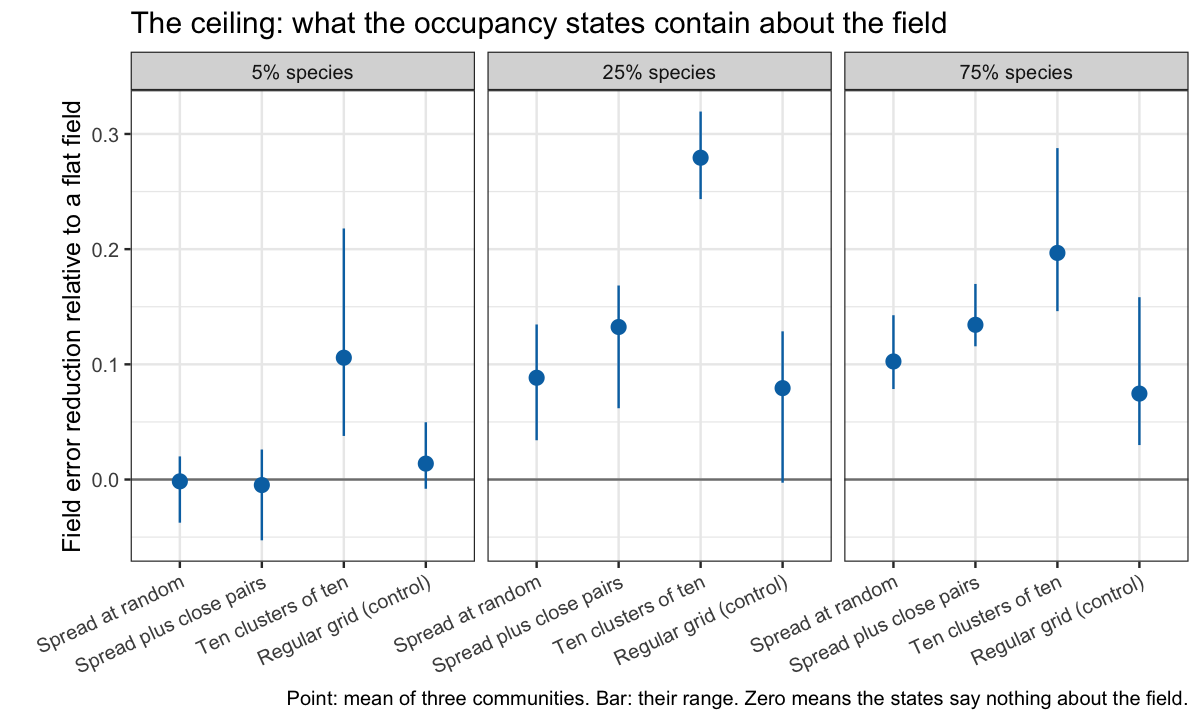
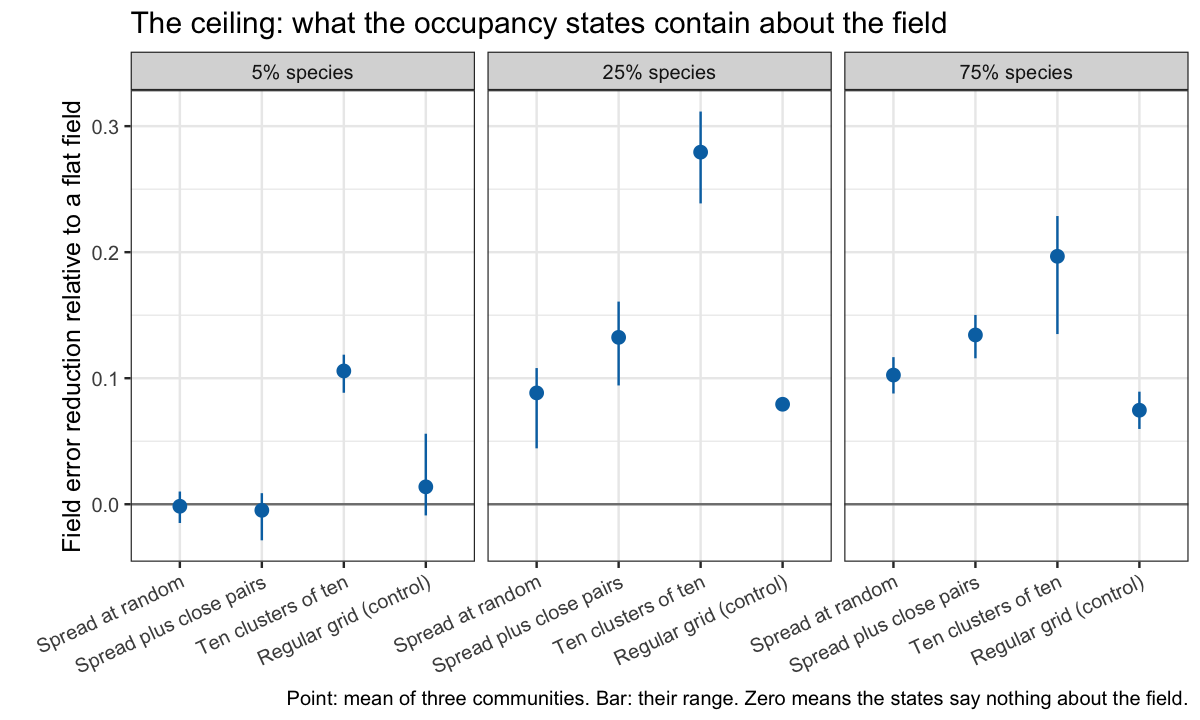
Correct Lesson 2's oracle figure and overstated claims and remove stale planning text

diff --git a/vignettes/occJSDM-lesson-2.md b/vignettes/occJSDM-lesson-2.md
@@ -5,11 +5,11 @@ Lesson 2: Spatial landscapes and survey design
 
 **The concepts come first; the worked sections below test them on a controlled simulation.** The sweep behind them fixed its design before any fit; the protocol and audited results are in the repository’s development folder. Dispersal and same-scale environmental confounding are not simulated here; the closing section says what remains.
 
-The central ecological question will be: **if a site offers suitable conditions, why might a species still be absent, and what can spatial information tell us?** We will use smooth environmental gradients and species with contrasting dispersal abilities. These ingredients will be introduced in separate sublessons so their effects are visible.
+The central ecological question will be: **if a site offers suitable conditions, why might a species still be absent, and what can spatial information tell us?** The worked sections use one broad environmental gradient and one short-range spatial field per species; contrasts between species with different dispersal abilities are deferred, and the closing section says what remains.
 
 ## Spatial effects, inference and sampling design
 
-This section explains what the spatial component contributes to species distribution predictions and how that affects survey design. It is written so that a study can be planned before the worked spatial example below exists. [Lesson 3](occJSDM-lesson-3.md#predict-occupancy-at-genuinely-new-sites) shows the non-spatial prediction call in R.
+This section explains what the spatial component contributes to species distribution predictions and how that affects survey design. It can be read on its own, before the worked sections. [Lesson 3](occJSDM-lesson-3.md#predict-occupancy-at-genuinely-new-sites) shows the non-spatial prediction call in R.
 
 ### What the spatial component learns
 
@@ -176,10 +176,21 @@ recovery <- cells |>
          arm = factor(arm, names(arm_labels), arm_labels),
          group = factor(group, names(group_labels), group_labels))
 
+# Each community's reduction, for the bars: errors are averaged over the group's species first.
+oracle_communities <- sweep$oracle |>
+  group_by(community, arrangement, group) |>
+  summarise(reduction = 1 - mean(centred_rmse) / mean(zero_field_rmse),
+            correlation = mean(centred_correlation), .groups = "drop")
+oracle_bars <- oracle_communities |>
+  group_by(arrangement, group) |>
+  summarise(low = min(reduction), high = max(reduction), .groups = "drop") |>
+  mutate(arrangement = factor(arrangement, arrangement_order, arrangement_labels),
+         group = factor(group, names(group_labels), group_labels))
+
 ggplot(filter(recovery, arm == arm_labels["oracle"]), aes(arrangement, reduction)) +
   geom_hline(yintercept = 0, colour = "grey50") +
-  geom_pointrange(aes(ymin = 1 - centred_rmse_max / zero_field_rmse, ymax = 1 - centred_rmse_min / zero_field_rmse),
-                  colour = "#0072B2") +
+  geom_linerange(data = oracle_bars, aes(arrangement, ymin = low, ymax = high), inherit.aes = FALSE, colour = "#0072B2") +
+  geom_point(colour = "#0072B2", size = 2.6) +
   facet_wrap(~ group) +
   labs(x = NULL, y = "Field error reduction relative to a flat field",
        title = "The ceiling: what the occupancy states contain about the field",
@@ -193,9 +204,13 @@ ggplot(filter(recovery, arm == arm_labels["oracle"]), aes(arrangement, reduction
 oracle_cells <- filter(cells, arm == "oracle")
 common <- filter(oracle_cells, group != "prevalence_5pct")
 rare <- filter(oracle_cells, group == "prevalence_5pct")
+clustered_25 <- filter(oracle_communities, arrangement == "clustered", group == "prevalence_25pct")
+clustered_75 <- filter(oracle_communities, arrangement == "clustered", group == "prevalence_75pct")
+clustered_5 <- filter(oracle_communities, arrangement == "clustered", group == "prevalence_5pct")
+passes <- function(d) sum(d$reduction >= .2 & d$correlation >= .5)
 ```
 
-The ceiling is low. Knowing everything except the field, the oracle removes at most 27.9% of the flat-field error, for the 25% species in the clustered design. For the common species it removes 7.5 to 10.2% with sites spread at random or on the grid, and 13.2 to 13.4% once close pairs are added. For the rare species it removes 10.6% in the clustered design and almost nothing elsewhere. One hundred occupancy states hold little information about a field whose range is 3% of the area’s side, however the sites are arranged, so no fit to those states can do much better.
+The ceiling is low for every arrangement except one. With sites spread at random, in pairs or on the grid, the oracle, knowing everything except the field, removes only 7.5 to 13.4% of the flat-field error for the common species, and almost nothing for the rare ones. Clustering changes that for the common species. For the 25% species the oracle clears both informative thresholds in 3 of 3 communities, with reductions of 23.9 to 31.2% and correlations of 0.64 to 0.73; for the 75% species it clears them in 2 of 3. For the rare species even clustered sites leave the oracle at 8.8 to 11.9%. So for most arrangements 100 occupancy states hold little information about a field whose range is 3% of the area’s side; clustered sites hold enough for the common species, and the next section asks whether occJSDM extracts it.
 
 ``` r
 sweep$reading |>
@@ -230,7 +245,7 @@ With sites spread at random, the field is not recoverable for any species group.
 
 ## 2C. What occJSDM delivers
 
-The full model must also estimate the intercepts, slopes, range and amplitude, and in the survey arm it must see the field through two field samples, two primers and six PCRs per sample. The oracle-to-true-state gap is the cost of estimation; the true-state-to-survey gap is the cost of detection.
+The full model must also estimate the intercepts, slopes, range and amplitude, and in the survey arm it must see the field through two field samples, two primers and six PCRs per primer per sample, 12 PCRs per sample. The oracle-to-true-state gap is the cost of estimation; the true-state-to-survey gap is the cost of detection.
 
 ``` r
 ggplot(recovery, aes(arrangement, reduction, colour = arm)) +
@@ -247,6 +262,11 @@ ggplot(recovery, aes(arrangement, reduction, colour = arm)) +
 ![](teaching-data/lesson-2-fit-recovery-1.png)<!-- -->
 
 ``` r
+survey_communities <- sweep$fits$field |>
+  filter(arm == "two_stage") |>
+  group_by(community, arrangement, target) |>
+  summarise(reduction = 1 - mean(centred_rmse) / mean(zero_field_rmse), .groups = "drop")
+
 sweep$paired |>
   group_by(arrangement) |>
   summarise(estimation = mean(estimation_cost), detection = mean(detection_cost), .groups = "drop") |>
@@ -265,7 +285,7 @@ sweep$paired |>
 
 Increase in field RMSE on the log-odds scale, mean of three communities and three species groups
 
-Both gaps are real. Estimation adds 0.070 to the field error on average and adds to it in 30 of the 36 community, arrangement and group cells. Detection adds a further 0.022 on average and adds to it in 35 of 36. The clustered design, which has the highest ceiling, carries the largest of both. The eDNA-survey fits remove at most 2.7% of the flat-field error in any cell.
+Both gaps are real. Estimation adds 0.070 to the field error on average and adds to it in 30 of the 36 community, arrangement and group cells. Detection adds a further 0.022 on average and adds to it in 35 of 36. The clustered design, which has the highest ceiling, carries the largest of both. The eDNA-survey fits remove at most 2.7% of the flat-field error in any cell when averaged over communities, and at most 3.6% in any single community.
 
 ``` r
 cells |>
@@ -287,7 +307,7 @@ cells |>
 
 The clustered design for the common species, mean of three communities
 
-In the clustered design the fit places the patches about as well as the oracle does, but not their strength. For the common species the true-state fit’s correlation with the true field is as high as the oracle’s, yet it removes less than half as much of the error. Correlation ignores scale and the error does not: the fit shrinks the field towards zero. Its posterior median for the field’s standard deviation is 0.31 to 0.36 against a true value of 1, and the upper end of its 95% interval is at most 0.61 in any fit. In the maps below, on one colour scale, the fitted fields are much paler than the truth.
+In the clustered design the fit places the patches about as well as the oracle does, but not their strength. For the common species the true-state fit’s correlation with the true field is as high as the oracle’s, yet it removes less than half as much of the error. Correlation ignores scale and the error does not: the fit shrinks the field towards zero. Its posterior median for the field’s standard deviation is 0.31 to 0.36 against a true value of 1, and the upper end of its 95% interval is at most 0.61 in any fit. So where the data do hold the field, the fit falls short of the ceiling through that shrinkage: for the 25% species in the clustered design it removes 10.5% of the error against the oracle’s 27.9%. In the maps below, on one colour scale, the fitted fields are much paler than the truth.
 
 ``` r
 maps <- sweep$field_maps |>
@@ -389,9 +409,10 @@ Initial fits that met the prespecified rule for a longer run
 
 ``` r
 amplitude_ess <- filter(sweep$fits$groups, metric == "spatial_sd")$ess_mean
+amplitude_rhat <- filter(sweep$fits$groups, metric == "spatial_sd")$rhat
 ```
 
-Convergence qualifications are part of the result. 3 of the 24 initial fits met the prespecified rule for a longer run; the longer run replaces the initial fit in every table, and 0 selected fits retain a flag after it. The rule covers occupancy, not the spatial amplitude, which mixes slowly: 10 of the 24 selected fits have an amplitude effective sample size below 100, the lowest 49.5. Their amplitude intervals are therefore imprecise, although every one lies far below the true value.
+Convergence qualifications are part of the result. 3 of the 24 initial fits met the prespecified rule for a longer run; the longer run replaces the initial fit in every table, and 0 selected fits retain a flag after it. The rule’s Rhat check covers every scored quantity, including the spatial amplitude, whose Rhat is 1.003 to 1.033, but its effective-sample-size threshold covers occupancy only. The amplitude mixes slowly: 10 of the 24 selected fits have an amplitude effective sample size below 100, the lowest 49.5. Their amplitude interval endpoints are therefore imprecisely estimated, although every interval lies far below the true value.
 
 ## 2D. Predicting unsurveyed locations
 
@@ -430,7 +451,7 @@ near_clusters <- spatial_gain$arrangement == "clustered" & spatial_gain$bin == "
 survey <- filter(lattice_means, arm == "two_stage")
 ```
 
-The lines are nearly flat and nearly coincide. With the spatial term, the true-state fits miss the true occupancy probability by 11.1 to 12.0 points at every distance and in every arrangement, except within 0.02 of a site in the clustered design, at 10.0. Dropping the spatial term changes the error by at most 0.17 points, except in that same bin, where it adds 0.73. Error does not grow with distance from the survey, because the fitted field is too weak to matter at any distance: the environment term carries the prediction. The eDNA-survey fits miss by 18.7 to 21.6 points, with a positive bias of 5.7 to 8.5 points, so detection costs far more here than the arrangement does.
+The lines are nearly flat and nearly coincide. With the spatial term, the true-state fits miss the true occupancy probability by 11.1 to 12.0 points at every distance and in every arrangement, except within 0.02 of a site in the clustered design, at 10.0. Dropping the spatial term changes the error by at most 0.17 points, except in that same bin, where it adds 0.73. Outside the clustered design the error barely changes with distance from the survey. In the clustered design it rises from 10.0 to 11.5 points, and the spatial term accounts for at most 0.73 of that. The fitted field is too weak to matter at any distance: the environment term carries the prediction. The eDNA-survey fits miss by 18.7 to 21.6 points, with a positive bias of 5.7 to 8.5 points, so detection costs far more here than the arrangement does.
 
 ``` r
 sweep$lattice_maps |>
@@ -452,13 +473,24 @@ sweep$lattice_maps |>
 
 ![](teaching-data/lesson-2-lattice-maps-1.png)<!-- -->
 
+``` r
+true_field <- sweep$landscape$field[sweep$landscape$index$lattice, "species06"]
+map_bias <- sweep$lattice_maps |>
+  filter(source == "binary") |>
+  group_by(arrangement) |>
+  summarise(signed = 100 * mean(with - truth), under = mean(with < truth),
+            field_correlation = cor(with - truth, true_field))
+```
+
+In both maps the errors mirror the true field, with a correlation of -0.94 to -0.91 between the error and the field: where the field raises occupancy the fit underpredicts, and where it lowers occupancy the fit overpredicts, because the fit has not learned the field. With clustered sites species 6 is also broadly underpredicted, by 10.0 points on average and in 73.5% of the cells. This is one species in one community, so it shows what a single map can look like, not a property of clustering.
+
 The conceptual section described clustering as trading coverage for neighbours, with close pairs as a hedge between the two. At this budget and range neither side of the trade shows in prediction. The field the fits learn is too weak to carry information away from the sites, so the coverage that clustering gives up costs nothing measurable, and the neighbours it buys help by less than a point, almost all of it within 0.02 of a site. Adding close pairs to a spread design raised the oracle ceiling for the common species, but the true-state fits still removed about 3% of the error or less. Whether the trade appears with a longer range, a stronger field or a larger budget is not tested here.
 
 ## What this establishes, and what it does not
 
 The sweep is a controlled, model-matched simulation: one broad gradient, one field range shared by all species, no dispersal, no species-specific ranges, and no environmental covariate at the field’s scale. Within that, three communities support the reading labels above, not confidence intervals.
 
-At this budget, no arrangement of 100 sites makes a field with a range of 3% of the area’s side recoverable. The information is not in the data: even the oracle ceiling is low. occJSDM recovers less than that ceiling, because it shrinks the field’s amplitude and prefers longer ranges than the truth. Clustering raises the field correlation to the oracle’s level for the common species but barely improves the map. Prediction at unsurveyed locations is carried almost entirely by the environment term, so the coverage that clustering gives up costs nothing measurable here, and the neighbours it gains buy almost nothing. Rare species are unrecoverable in every arrangement. The two-stage survey adds a detection cost on top of the cost of estimation.
+At this budget, no arrangement of 100 sites lets occJSDM recover a field with a range of 3% of the area’s side. For most arrangements the information is not in the data: even the oracle ceiling is low. The exception is clustering for the common species, where the oracle clears the informative thresholds for the 25% species in every community; there occJSDM falls short of the ceiling, because it shrinks the field’s amplitude and prefers longer ranges than the truth. Clustering raises the field correlation to the oracle’s level for the common species but barely improves the map. Prediction at unsurveyed locations is carried almost entirely by the environment term, so the coverage that clustering gives up costs nothing measurable here, and the neighbours it gains buy almost nothing. Rare species are unrecoverable in every arrangement. The two-stage survey adds a detection cost on top of the cost of estimation.
 
 Nothing here validates spatial prediction on real data, establishes interval coverage, or shows what happens when species disperse at different scales; those are the separate contrasts still to come, with same-scale environmental confounding the first candidate.
 

diff --git a/TODO.md b/TODO.md
@@ -112,7 +112,7 @@ Every outstanding item from the previous TODO is accounted for below or in the r
 ## Paper and broader validation
 
 - **Create and validate the full set of vignettes:** currently lessons 0-4. Complete the lesson content, run all examples against the current package, and render and review each vignette for correctness, consistency and clear presentation. Verify that results and explanations reflect the current API and documented model limitations.
-- ~~**Lesson 2 (study design): show when the spatial submodel is informative.**~~ **DONE 1 October 2026:** see [the sweep](dev/simstudy/spatial-design-sweep/README.md) and Lesson 2. The [spatial-amplitude comparison](dev/simstudy/spatial-amplitude-prior/README.md) and its [conditional diagnosis](dev/simstudy/spatial-amplitude-prior/diagnosis/REPORT.md) found that the nine saved communities carry little information about their spatial fields: sites are sparse relative to the correlation range (at the shortest range, 61 to 70% of sites have no neighbour with correlation above 0.5), one binary observation per site is weak, and 1% and 5% species are unrecoverable at any design. Both priors recovered nearly flat fields. Turn that negative result into design guidance with a prespecified design sweep. Vary site spacing relative to the generating range (site density or range at fixed extent) and the number of sites, crossed with species prevalence; treat repeated independent occupancy states per site (experiment D) as an upper bound, not a survey recommendation. Run the sweep with the validated conditional elliptical-slice sampler from the diagnosis, which fits in minutes and already has audit machinery, then confirm the informative and uninformative corners with a few full-model fits to show what the package delivers, including convergence. Fix the design grid, the recovery criteria (centred median-field RMSE and correlation against a zero-field baseline, occupancy error by prevalence) and the sampling budgets before fitting, and report convergence qualifications as in the earlier studies. Present in Lesson 2 as: recovery improves once neighbouring sites lie within the correlation range and species are common enough, and the spatial term should be documented as uninformative otherwise. Schedule after the required occupancy-intercept widening study (completed 30 September 2026); no default change follows from it.
+- ~~**Lesson 2 (study design): show when the spatial submodel is informative.**~~ **DONE 1 October 2026: 11 of the 12 arrangement and species-group cells were uninformative, the clustered design for the 25% species was intermediate, and the range was never recovered.** See [the sweep](dev/simstudy/spatial-design-sweep/README.md) and Lesson 2. ~~The [spatial-amplitude comparison](dev/simstudy/spatial-amplitude-prior/README.md) and its [conditional diagnosis](dev/simstudy/spatial-amplitude-prior/diagnosis/REPORT.md) found that the nine saved communities carry little information about their spatial fields: sites are sparse relative to the correlation range (at the shortest range, 61 to 70% of sites have no neighbour with correlation above 0.5), one binary observation per site is weak, and 1% and 5% species are unrecoverable at any design. Both priors recovered nearly flat fields. Turn that negative result into design guidance with a prespecified design sweep. Vary site spacing relative to the generating range (site density or range at fixed extent) and the number of sites, crossed with species prevalence; treat repeated independent occupancy states per site (experiment D) as an upper bound, not a survey recommendation. Run the sweep with the validated conditional elliptical-slice sampler from the diagnosis, which fits in minutes and already has audit machinery, then confirm the informative and uninformative corners with a few full-model fits to show what the package delivers, including convergence. Fix the design grid, the recovery criteria (centred median-field RMSE and correlation against a zero-field baseline, occupancy error by prevalence) and the sampling budgets before fitting, and report convergence qualifications as in the earlier studies. Present in Lesson 2 as: recovery improves once neighbouring sites lie within the correlation range and species are common enough, and the spatial term should be documented as uninformative otherwise. Schedule after the required occupancy-intercept widening study (completed 30 September 2026); no default change follows from it.~~
 - **Compare spatial-effect recovery across JSDM software in Lesson 4:** extend the software comparison to spatial models, with particular emphasis on sjSDM and occJSDM. Cover all four packages already compared (occJSDM, sjSDM, Hmsc and gllvm), review other available JSDM software for inclusion, and document unsupported spatial features. Use shared simulated datasets with known spatial truth and comparable prediction targets. Compare spatial-pattern and amplitude recovery, occupancy-probability error, prediction at held-out sites, uncertainty and fitting diagnostics; compare range parameters only where their definitions and scales match. Link this comparison from Lesson 2's explanation of spatial effects.
 - **Reproduce the Ecology Letters analyses:** defer the full reproduction and decision about including it in the repository. The beta needs the targeted checks above.
 - **Repeat the complete simulation grid after fixes:** defer the comprehensive paper run. For a deliberate production-grid run, specify `base,binary,d_overfit,d_underfit,low_information,occupancy,primers_3,spatial_isolated,species_20,traits_isolated`; a bare runner invocation also selects additional experimental cells.

diff --git a/vignettes/LESSON-PLAN.md b/vignettes/LESSON-PLAN.md
@@ -21,11 +21,11 @@ The aim is to help an empirical ecologist understand what occJSDM does, read and
 | Unnumbered Quickstart | Built; merged in PR #12 | Short fitting example, lesson navigation and where to start. Replaces the old standalone output tour. | [occJSDM.Rmd](occJSDM.Rmd) |
 | Lesson 0: Create and explore a simulated survey | Built on main, including unbalanced-data extension | Optional introduction to sites, samples, primers, PCR replicates, covariates, traits and maps; removing whole samples while preserving paired rows. | [occJSDM-lesson-0.Rmd](occJSDM-lesson-0.Rmd) |
 | Lesson 1: Fit the model and compare its answers with truth | Built on main, including fitting reference and unbalanced fit | Perfect-observation and PCR fits, occupancy errors, false positives, prior sensitivity and unequal field replication. | [occJSDM-lesson-1.Rmd](occJSDM-lesson-1.Rmd) |
-| Lesson 2: Spatial landscapes and dispersal | Built: concept section plus the worked site-arrangement sweep; dispersal and confounding deferred | Smooth environmental gradients, additional spatial structure, contrasting dispersal and prediction away from sampled sites. | [occJSDM-lesson-2.Rmd](occJSDM-lesson-2.Rmd) |
+| Lesson 2: Spatial landscapes and survey design | Built: concept section plus the worked site-arrangement sweep; dispersal and confounding deferred | Smooth environmental gradients, additional spatial structure, contrasting dispersal and prediction away from sampled sites. | [occJSDM-lesson-2.Rmd](occJSDM-lesson-2.Rmd) |
 | Lesson 3: Understand the model's outputs | Built, including native plots and the independent-site prediction comparison | Environmental and trait effects, response curves, species associations, ordination, variation partitioning, collection effects and detection effort, all with matching truth. | [occJSDM-lesson-3.Rmd](occJSDM-lesson-3.Rmd) |
 | Lesson 4: Compare four JSDMs | Built from the four-package pilot and completed ten-community extension; failures and diagnostic flags retained | Compare the pure JSDM in occJSDM with gllvm, sjSDM and Hmsc using perfectly observed presence/absence, varying sample size, ecological conditions and supplied traits. | [occJSDM-lesson-4.Rmd](occJSDM-lesson-4.Rmd) |
 
-Read Lesson 0 if the data structure is unfamiliar, then Lesson 1 and Lesson 3. The unfinished spatial lesson is not a prerequisite for Lesson 3. Lesson N was renamed Lesson 4 on 23 September 2026 once its content was settled.
+Read Lesson 0 if the data structure is unfamiliar, then Lesson 1 and Lesson 3. The spatial lesson is not a prerequisite for Lesson 3. Lesson N was renamed Lesson 4 on 23 September 2026 once its content was settled.
 
 ## What has been built
 
@@ -45,11 +45,9 @@ The canonical lesson sources are the `.Rmd` files. Rendered `.md` files and figu
 
 ### Lesson 2: space, habitat and dispersal
 
-Implement the existing outline after the reviewed spatial correction is available and its source revision can be recorded. The outline was written while PR #8 was awaiting review; check its current status before starting. A merge by itself does not validate a new simulation or lesson.
-
 PR #8 merged on 27 September 2026, and on 1 October 2026 a prespecified site-arrangement sweep replaced the outline sublessons 2A to 2D. It places 100 sites in four arrangements, spread at random, spread with close pairs, ten clusters of ten, and a regular grid as a control, in three simulated communities of eight species that share one short field range. It compares an oracle that knows every parameter except the field with occJSDM fitted to the true occupancy states and to a simulated two-stage eDNA survey, and it labels each arrangement and species group informative, intermediate or uninformative by reading rules fixed before any fit. The protocol and audited results are in the [sweep README](../dev/simstudy/spatial-design-sweep/README.md). Dispersal, species-specific ranges and same-scale environmental confounding are the deferred contrasts.
 
-The detailed questions and constraints are already in the [Lesson 2 outline](occJSDM-lesson-2.Rmd). If the dispersal simulator cannot calculate probabilities directly, repeated independent simulations will be needed to estimate them, with their own Monte Carlo uncertainty shown separately.
+If the deferred dispersal contrast is built and its simulator cannot calculate probabilities directly, repeated independent simulations will be needed to estimate them, with their own Monte Carlo uncertainty shown separately.
 
 ### Lesson 4: occJSDM, gllvm, sjSDM and Hmsc
 

diff --git a/vignettes/occJSDM-lesson-3.md b/vignettes/occJSDM-lesson-3.md
@@ -5,7 +5,7 @@ Lesson 3: Understand the model’s outputs by comparing them with truth
 
 An environmental effect can be real in the simulation and still be estimated imprecisely. A fitted curve can look convincing and still miss the truth. This lesson shows how to distinguish those situations.
 
-It replaces the output tour in the original occJSDM vignette. Start with [Lesson 1](occJSDM-lesson-1.md) for fitting and false-positive interpretation; [Lesson 0](occJSDM-lesson-0.md) explains the simulation. You do not need the planned spatial Lesson 2 first. Here we use the same **non-spatial** community: 100 sites, 10 species, two measured environmental covariates, two measured traits, two field samples per site, two primers and six PCR replicates per primer.
+It replaces the output tour in the original occJSDM vignette. Start with [Lesson 1](occJSDM-lesson-1.md) for fitting and false-positive interpretation; [Lesson 0](occJSDM-lesson-0.md) explains the simulation. You do not need the spatial Lesson 2 first. Here we use the same **non-spatial** community: 100 sites, 10 species, two measured environmental covariates, two measured traits, two field samples per site, two primers and six PCR replicates per primer.
 
 We compare two existing fits of that community: one given the actual presence/absence matrix (**perfect observation**) and one given the PCR observations. The diagnostics section also revisits Lesson 1’s longer alternative-prior fit. This is not a before/after comparison of software versions. The fits use the verified model source recorded in Lesson 1; that source matches the code on main when this lesson was prepared. Most examples reuse these fits. The new-site comparison below adds one fit to the same PCR observations, changing only the number of hidden site factors from two to one.
 
@@ -2217,7 +2217,7 @@ These exporters preserve all posterior draws for their summaries. They do not re
 | What happened at a particular site/sample? | `computeConditionalOccupancyProbs()`, `computeConditionalSamplePresenceProbs()`, `computePredictiveOccupancyProbs()`, `returnLatentPresences()`, `plotLatentPresences()` | Native tables above, with matching states and probabilities |
 | Can I trust the computation? | `computeDiagnostics()`, `returnConvergenceDiagnostics()`, `plotTraceplot()`, `extractWAIC()` | Diagnostics above; these have no single simulated true value |
 | How well does it predict unsurveyed sites? | `predictNewSites()` | 300 independent non-spatial sites above, with clearly distinguished probability targets |
-| What about spatial prediction? | Spatial model outputs | Planned Lesson 2; not validated by this lesson |
+| What about spatial prediction? | Spatial model outputs | Lesson 2, a worked site-arrangement sweep; not validated by this lesson |
 
 ## References and further reading
 

diff --git a/README.md b/README.md
@@ -30,6 +30,7 @@ After installing with vignettes, open the completed lessons in R:
 ``` r
 vignette("occJSDM-lesson-0", package = "occJSDM")
 vignette("occJSDM-lesson-1", package = "occJSDM")
+vignette("occJSDM-lesson-2", package = "occJSDM")
 vignette("occJSDM-lesson-3", package = "occJSDM")
 vignette("occJSDM-lesson-4", package = "occJSDM")
 ```
